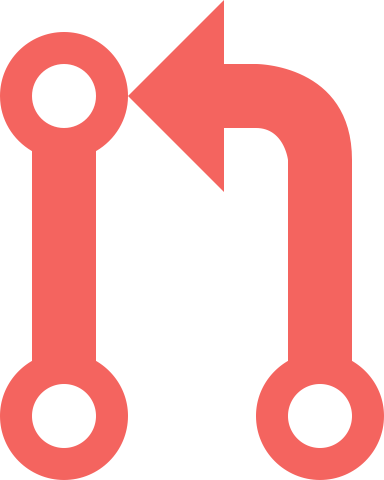
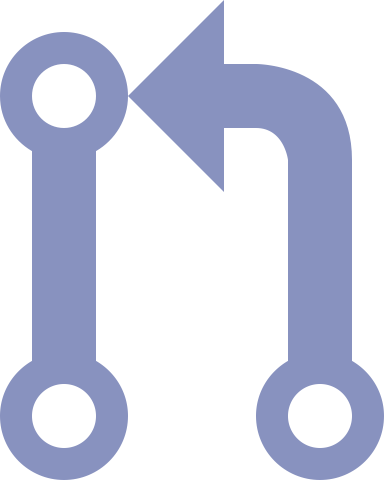
PHP version of shift, do not merge into master, as it will overwrite the existing site.

diff --git a/res/css/shift.css b/res/css/shift.css
@@ -26,22 +26,22 @@ h6 {
 .btn-primary {
   background-color: #ffffff;
   border-color: #ffffff;
-  color: #f4645f;
+  color: #8892bf;
 }
 .btn-primary:active {
   background-color: #f2f2f2;
   border-color: #f2f2f2;
-  color: #f4645f;
+  color: #8892bf;
 }
 .btn-primary:focus,
 .btn-primary:hover {
   background-color: #f2f2f2;
   border-color: #f2f2f2;
-  color: #f4645f;
+  color: #8892bf;
 }
 .banner {
-  background: #f4645f;
-  background-image: linear-gradient(to top right, #f3bd92, #f4645f);
+  background: #8892bf;
+  background-image: linear-gradient(to top right, #4f5b93, #8892bf);
   color: #ffffff;
   text-align: center;
 }
@@ -55,7 +55,7 @@ h6 {
   letter-spacing: 5px;
   margin: 0 0 20px 0;
   text-transform: uppercase;
-  text-shadow: 0 1px #f4645f, -1px 0 #f3bd92, -1px 2px #f4645f, -2px 1px #f3bd92, -2px 3px #f4645f, -3px 2px #f3bd92, -3px 4px #f4645f, -4px 3px #f3bd92, -4px 5px #f4645f, -5px 4px #f3bd92, -5px 6px #f4645f, -6px 5px #f3bd92, -6px 7px #f4645f, -7px 6px #f3bd92, -7px 8px #f4645f, -8px 7px #f3bd92;
+  text-shadow: 0 1px #8892bf, -1px 0 #4f5b93, -1px 2px #8892bf, -2px 1px #4f5b93, -2px 3px #8892bf, -3px 2px #4f5b93, -3px 4px #8892bf, -4px 3px #4f5b93, -4px 5px #8892bf, -5px 4px #4f5b93, -5px 6px #8892bf, -6px 5px #4f5b93, -6px 7px #8892bf, -7px 6px #4f5b93, -7px 8px #8892bf, -8px 7px #4f5b93;
 }
 .banner .logo h3 {
   color: #f0f2f1;
@@ -63,8 +63,8 @@ h6 {
   margin: 0;
 }
 .banner-inside {
-  background: #f4645f;
-  background-image: linear-gradient(to top right, #f3bd92, #f4645f);
+  background: #8892bf;
+  background-image: linear-gradient(to top right, #4f5b93, #8892bf);
   color: #ffffff;
   text-align: center;
 }
@@ -77,7 +77,7 @@ h6 {
   letter-spacing: 5px;
   margin: 10px 0 8px 0;
   text-transform: uppercase;
-  text-shadow: 0 1px #f4645f, -1px 0 #f3bd92, -1px 2px #f4645f, -2px 1px #f3bd92, -2px 3px #f4645f, -3px 2px #f3bd92, -3px 4px #f4645f, -4px 3px #f3bd92, -4px 5px #f4645f, -5px 4px #f3bd92;
+  text-shadow: 0 1px #8892bf, -1px 0 #4f5b93, -1px 2px #8892bf, -2px 1px #4f5b93, -2px 3px #8892bf, -3px 2px #4f5b93, -3px 4px #8892bf, -4px 3px #4f5b93, -4px 5px #8892bf, -5px 4px #4f5b93;
 }
 .banner-inside .logo h1 a,
 .banner-inside .logo h1 a:hover,
@@ -96,8 +96,8 @@ h6 {
 .btn,
 .btn-primary,
 button {
-  background: #f4645f;
-  background-image: linear-gradient(to top right, #f7928f, #f4645f);
+  background: #8892bf;
+  background-image: linear-gradient(to top right, #a9b0d1, #8892bf);
   box-shadow: 1px 1px 1px #aeaeae;
   border: 0;
   color: #ffffff;
@@ -114,16 +114,16 @@ button:active,
 .btn:focus,
 .btn-primary:focus,
 button:focus {
-  background: #f4645f !important;
+  background: #8892bf !important;
   color: #ffffff !important;
 }
 .stripe-button-el {
-  background-image: linear-gradient(to top right, #f7928f, #f4645f) !important;
+  background-image: linear-gradient(to top right, #a9b0d1, #8892bf) !important;
   border: 0 !importnat;
 }
 .stripe-button-el span {
-  background: #f4645f !important;
-  background-image: linear-gradient(to top right, #f7928f, #f4645f) !important;
+  background: #8892bf !important;
+  background-image: linear-gradient(to top right, #a9b0d1, #8892bf) !important;
   box-shadow: 1px 1px 1px #aeaeae !important;
   border: 0 !important;
   color: #ffffff !important;
@@ -134,7 +134,7 @@ button:focus {
 .stripe-button-el span:visited,
 .stripe-button-el span:active,
 .stripe-button-el span:focus {
-  background: #f4645f !important;
+  background: #8892bf !important;
   color: #ffffff !important;
 }
 .content {
@@ -143,10 +143,10 @@ button:focus {
   padding-bottom: 40px;
 }
 .content h2.page-title {
-  color: #f4645f;
+  color: #8892bf;
 }
 .content .sidebar {
-  background: #f3bd92;
+  background: #4f5b93;
   border-radius: 8px;
   color: #ffffff;
   padding-top: 14px;
@@ -179,7 +179,7 @@ button:focus {
   text-align: center;
 }
 .how .row i {
-  color: #f4645f;
+  color: #8892bf;
 }
 .how .row .pull {
   max-width: 32px;
@@ -187,7 +187,7 @@ button:focus {
   margin-bottom: 6px;
 }
 .how .row h3 {
-  color: #f4645f;
+  color: #8892bf;
 }
 .pricing {
   background: #f0f2f1;
@@ -198,8 +198,8 @@ button:focus {
   margin-bottom: 30px;
 }
 .pricing h3 {
-  background: #f4645f;
-  background-image: linear-gradient(to top right, #f7928f, #f4645f);
+  background: #8892bf;
+  background-image: linear-gradient(to top right, #a9b0d1, #8892bf);
   border: 1px solid #ffffff;
   border-radius: 150px;
   box-shadow: 2px 2px 2px #aeaeae;
@@ -218,10 +218,10 @@ button:focus {
   margin-top: -45px;
 }
 .pricing .panel .price-tag {
-  background: #fef7f2;
-  border: 1px solid #f3bd92;
+  background: #8c95c1;
+  border: 1px solid #4f5b93;
   border-radius: 4px;
-  color: #f4645f;
+  color: #ffffff;
   display: block;
   padding: 8px;
   text-align: center;
@@ -275,10 +275,10 @@ button:focus {
 }
 .testimonials .carousel-indicators li {
   background: #ffffff;
-  border: 1px solid #f4645f !important;
+  border: 1px solid #8892bf !important;
 }
 .shrug {
-  color: #f4645f;
+  color: #8892bf;
   font-size: 80px;
   text-align: center;
 }
@@ -292,6 +292,9 @@ button:focus {
   position: absolute;
   text-align: center;
   width: 100%;
+}
+.credits a {
+  color: #8892bf;
 }
 .credits a:hover {
   color: #ffffff;

diff --git a/res/css/bootstrap.css b/res/css/bootstrap.css
@@ -1097,7 +1097,7 @@ textarea {
   line-height: inherit;
 }
 a {
-  color: #f4645f;
+  color: #4f5b93;
   text-decoration: none;
 }
 a:hover,
@@ -1338,7 +1338,7 @@ mark,
   color: #777;
 }
 .text-primary {
-  color: #f4645f;
+  color: #4f5b93;
 }
 a.text-primary:hover,
 a.text-primary:focus {
@@ -1374,7 +1374,7 @@ a.text-danger:focus {
 }
 .bg-primary {
   color: #fff;
-  background-color: #f4645f;
+  background-color: #4f5b93;
 }
 a.bg-primary:hover,
 a.bg-primary:focus {
@@ -3118,8 +3118,8 @@ fieldset[disabled] .btn-default.focus {
 }
 .btn-primary {
   color: #fff;
-  background-color: #f4645f;
-  border-color: #f4645f;
+  background-color: #4f5b93;
+  border-color: #4f5b93;
 }
 .btn-primary:focus,
 .btn-primary.focus {
@@ -3166,11 +3166,11 @@ fieldset[disabled] .btn-primary:focus,
 .btn-primary.disabled.focus,
 .btn-primary[disabled].focus,
 fieldset[disabled] .btn-primary.focus {
-  background-color: #f4645f;
-  border-color: #f4645f;
+  background-color: #4f5b93;
+  border-color: #4f5b93;
 }
 .btn-primary .badge {
-  color: #f4645f;
+  color: #4f5b93;
   background-color: #fff;
 }
 .btn-success {
@@ -3403,7 +3403,7 @@ fieldset[disabled] .btn-danger.focus {
 }
 .btn-link {
   font-weight: normal;
-  color: #f4645f;
+  color: #4f5b93;
   border-radius: 0;
 }
 .btn-link,
@@ -3572,7 +3572,7 @@ tbody.collapse.in {
 .dropdown-menu > .active > a:focus {
   color: #fff;
   text-decoration: none;
-  background-color: #f4645f;
+  background-color: #4f5b93;
   outline: 0;
 }
 .dropdown-menu > .disabled > a,
@@ -4007,7 +4007,7 @@ select[multiple].input-group-sm > .input-group-btn > .btn {
 .nav .open > a:hover,
 .nav .open > a:focus {
   background-color: #eee;
-  border-color: #f4645f;
+  border-color: #4f5b93;
 }
 .nav .nav-divider {
   height: 1px;
@@ -4100,7 +4100,7 @@ select[multiple].input-group-sm > .input-group-btn > .btn {
 .nav-pills > li.active > a:hover,
 .nav-pills > li.active > a:focus {
   color: #fff;
-  background-color: #f4645f;
+  background-color: #4f5b93;
 }
 .nav-stacked > li {
   float: none;
@@ -4727,7 +4727,7 @@ fieldset[disabled] .navbar-inverse .btn-link:focus {
   padding: 6px 12px;
   margin-left: -1px;
   line-height: 1.42857143;
-  color: #f4645f;
+  color: #4f5b93;
   text-decoration: none;
   background-color: #fff;
   border: 1px solid #ddd;
@@ -4761,8 +4761,8 @@ fieldset[disabled] .navbar-inverse .btn-link:focus {
   z-index: 3;
   color: #fff;
   cursor: default;
-  background-color: #f4645f;
-  border-color: #f4645f;
+  background-color: #4f5b93;
+  border-color: #4f5b93;
 }
 .pagination > .disabled > span,
 .pagination > .disabled > span:hover,
@@ -4878,7 +4878,7 @@ a.label:focus {
   background-color: #5e5e5e;
 }
 .label-primary {
-  background-color: #f4645f;
+  background-color: #4f5b93;
 }
 .label-primary[href]:hover,
 .label-primary[href]:focus {
@@ -4946,7 +4946,7 @@ a.badge:focus {
 }
 .list-group-item.active > .badge,
 .nav-pills > .active > a > .badge {
-  color: #f4645f;
+  color: #4f5b93;
   background-color: #fff;
 }
 .list-group-item > .badge {
@@ -5021,7 +5021,7 @@ a.badge:focus {
 a.thumbnail:hover,
 a.thumbnail:focus,
 a.thumbnail.active {
-  border-color: #f4645f;
+  border-color: #4f5b93;
 }
 .thumbnail .caption {
   padding: 9px;
@@ -5143,7 +5143,7 @@ a.thumbnail.active {
   line-height: 20px;
   color: #fff;
   text-align: center;
-  background-color: #f4645f;
+  background-color: #4f5b93;
   -webkit-box-shadow: inset 0 -1px 0 rgba(0, 0, 0, .15);
           box-shadow: inset 0 -1px 0 rgba(0, 0, 0, .15);
   -webkit-transition: width .6s ease;
@@ -5307,8 +5307,8 @@ button.list-group-item {
 .list-group-item.active:focus {
   z-index: 2;
   color: #fff;
-  background-color: #f4645f;
-  border-color: #f4645f;
+  background-color: #4f5b93;
+  border-color: #4f5b93;
 }
 .list-group-item.active .list-group-item-heading,
 .list-group-item.active:hover .list-group-item-heading,
@@ -5704,22 +5704,22 @@ button.list-group-item-danger.active:focus {
   border-bottom-color: #ddd;
 }
 .panel-primary {
-  border-color: #f4645f;
+  border-color: #4f5b93;
 }
 .panel-primary > .panel-heading {
   color: #fff;
-  background-color: #f4645f;
-  border-color: #f4645f;
+  background-color: #4f5b93;
+  border-color: #4f5b93;
 }
 .panel-primary > .panel-heading + .panel-collapse > .panel-body {
-  border-top-color: #f4645f;
+  border-top-color: #4f5b93;
 }
 .panel-primary > .panel-heading .badge {
-  color: #f4645f;
+  color: #4f5b93;
   background-color: #fff;
 }
 .panel-primary > .panel-footer + .panel-collapse > .panel-body {
-  border-bottom-color: #f4645f;
+  border-bottom-color: #4f5b93;
 }
 .panel-success {
   border-color: #d6e9c6;

diff --git a/res/css/shift.less b/res/css/shift.less
@@ -1,8 +1,8 @@
 /* Variables */
 @grey: #f0f2f1;
 @white: #fff;
-@primary: #f4645f;
-@secondary: #f3bd92;
+@primary: #8892bf;
+@secondary: #4f5b93;
 @text-grey: #aeaeae;
 @text: #525252;
 @black: #525252;
@@ -290,7 +290,7 @@ h1, h2, h3, h4, h5, h6 {
             background: lighten(@secondary, 21%);;
             border: 1px solid @secondary;
             border-radius: 4px;
-            color: @primary;
+            color: @white;
             display: block;
             padding: 8px;
             text-align: center;
@@ -377,8 +377,11 @@ h1, h2, h3, h4, h5, h6 {
     text-align: center;
     width: 100%;
 
-    a:hover {
-        color: @white;
+    a {
+        color: @primary;
+        &:hover {
+            color: @white;
+        }
     }
 
     .social-icons {
